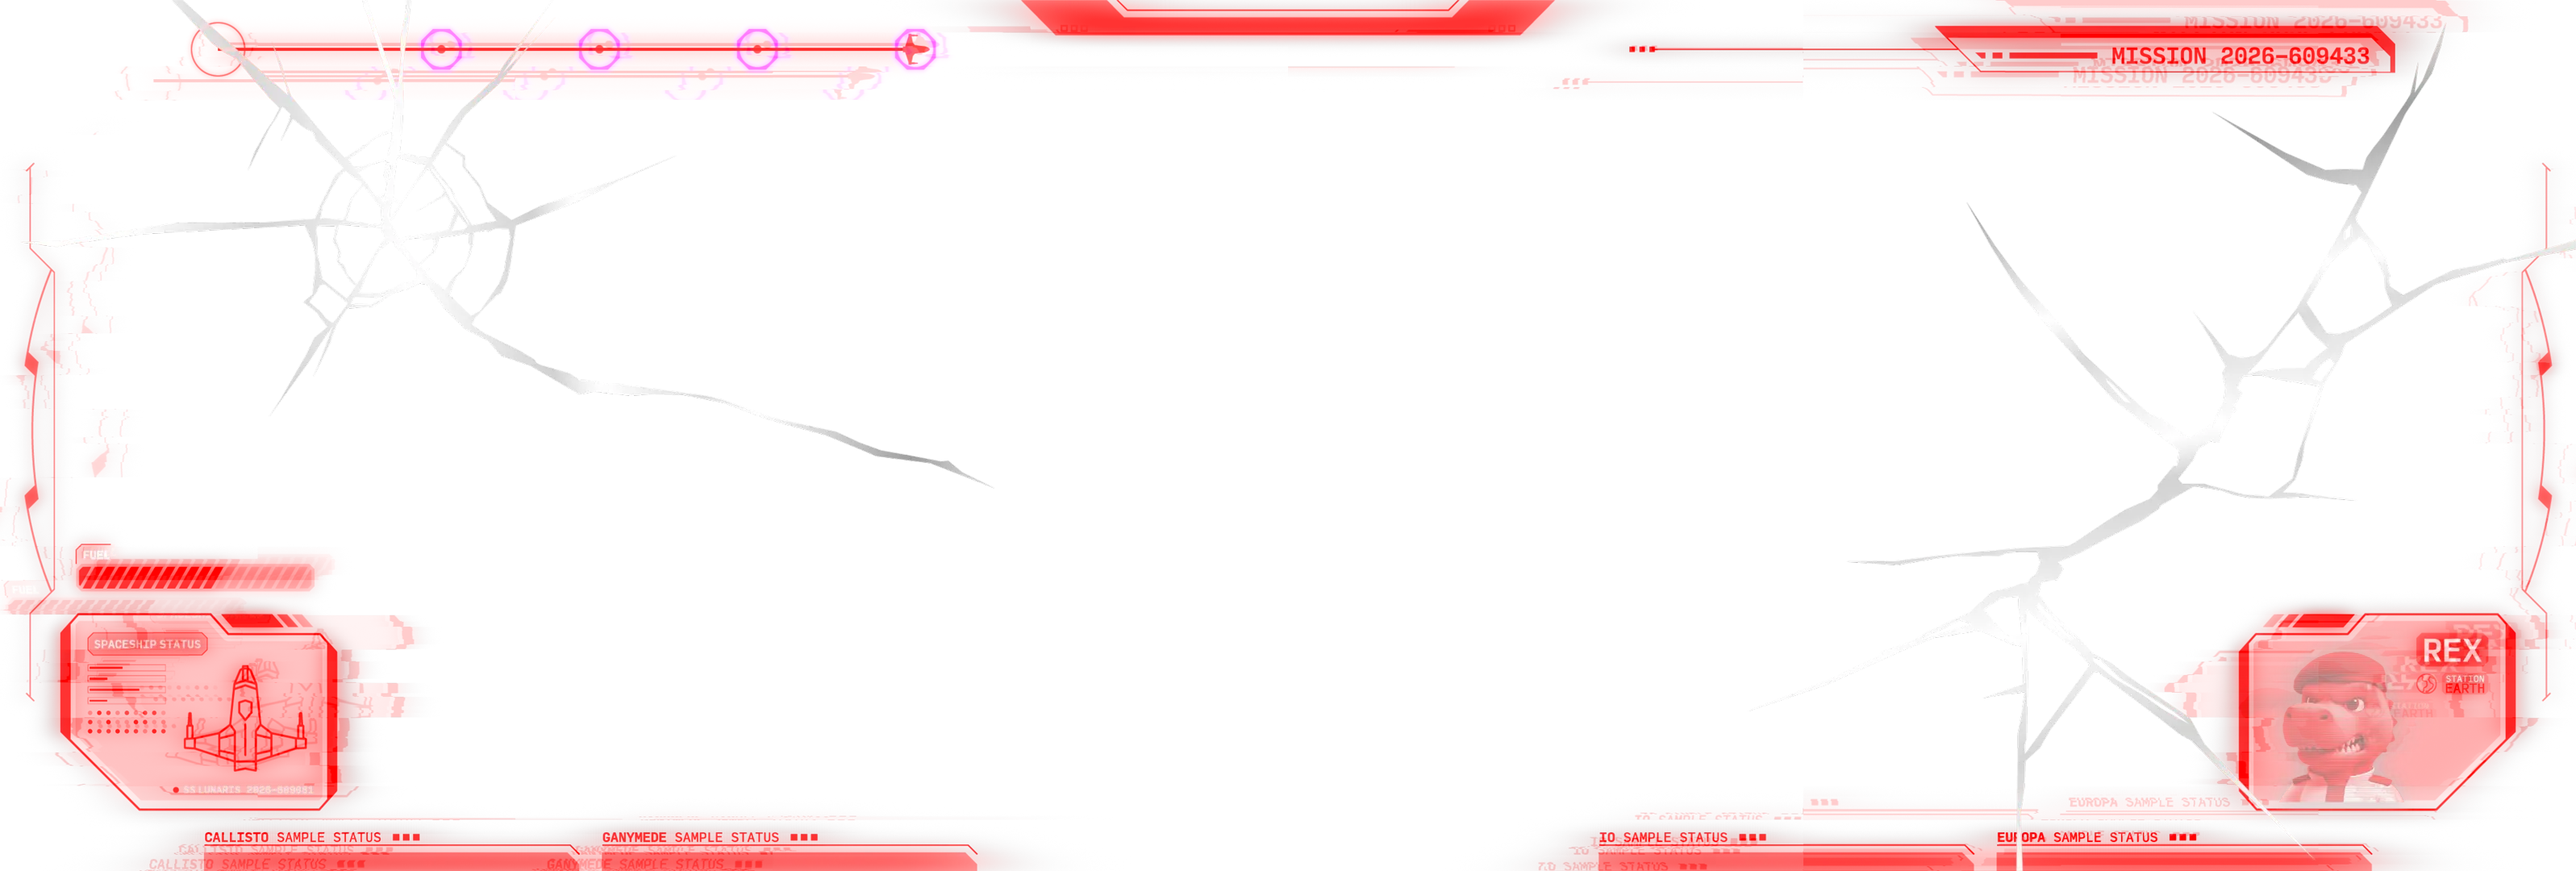
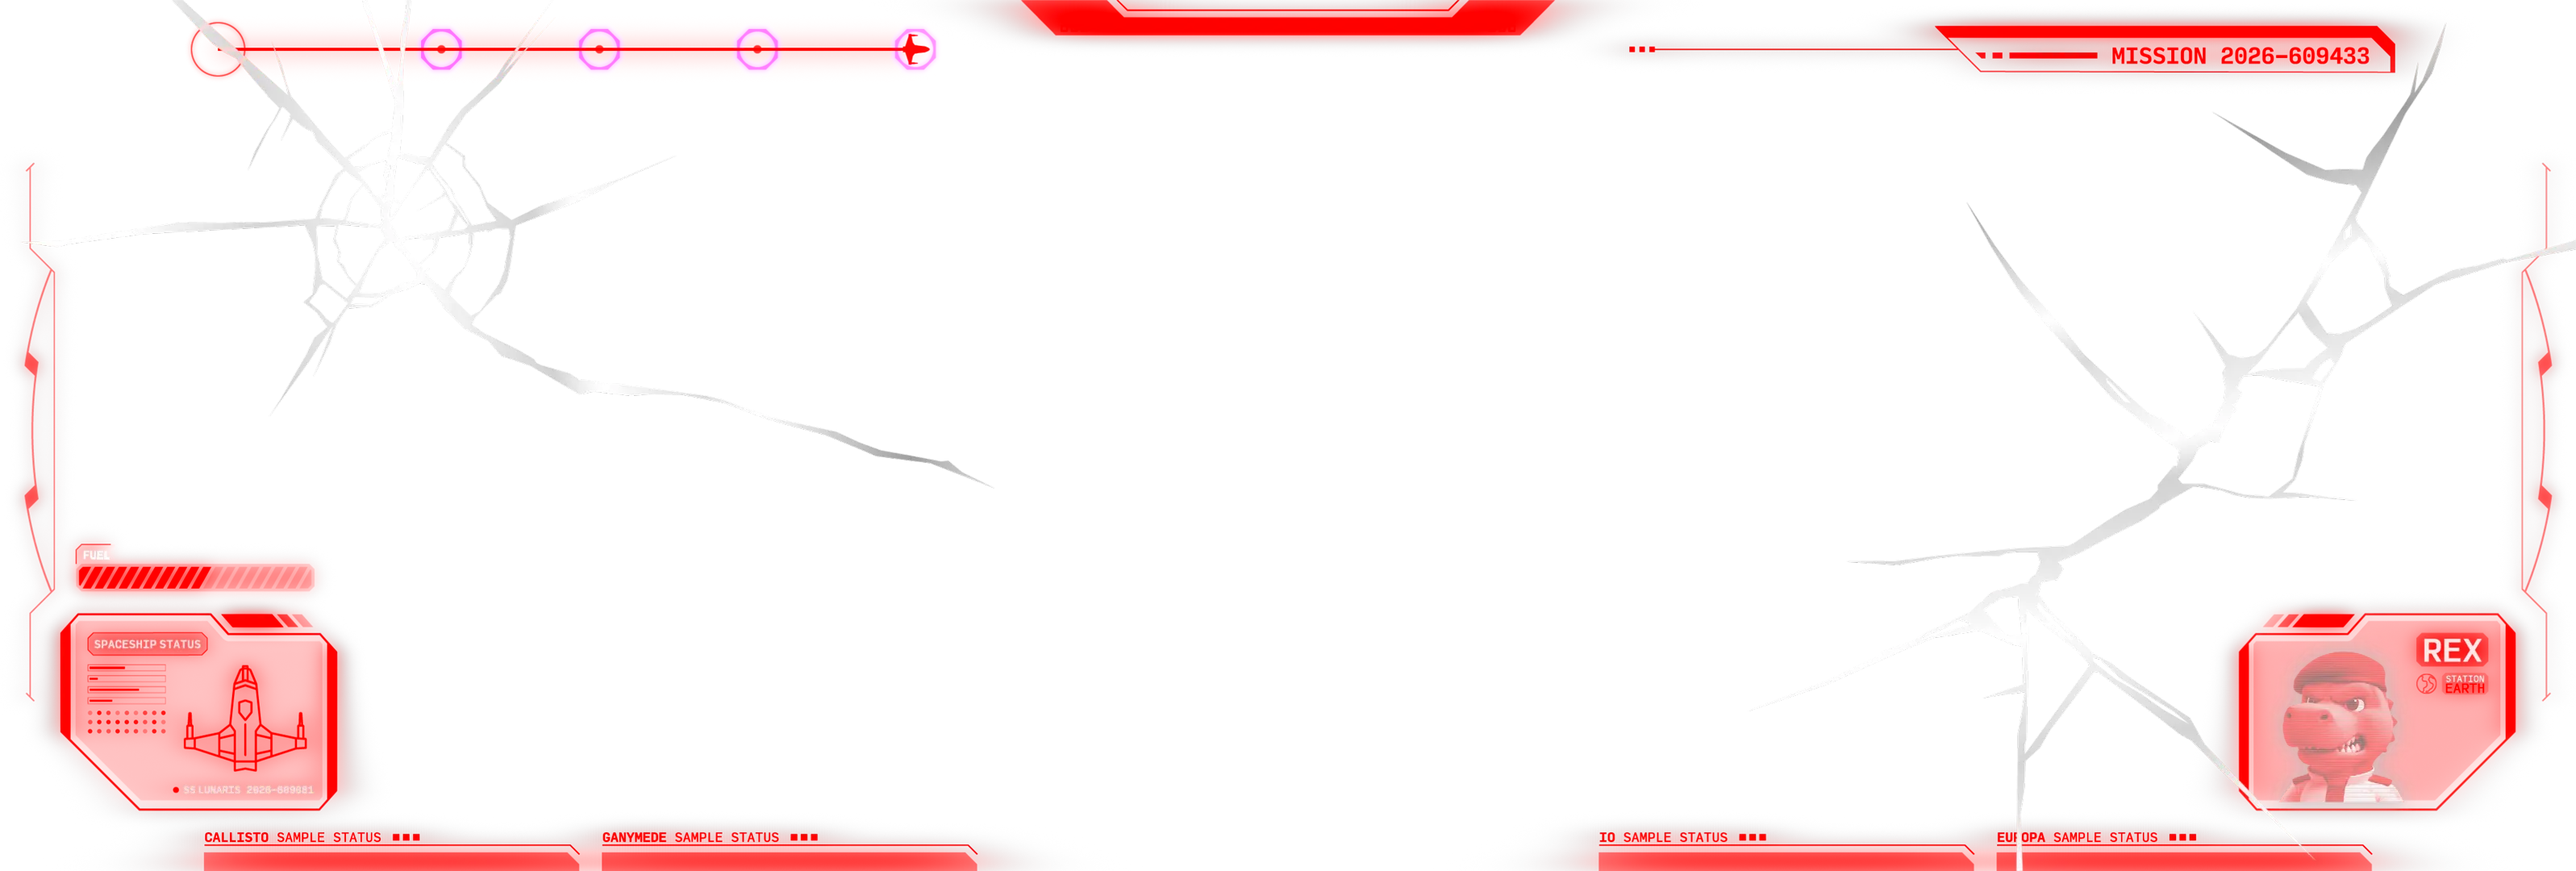
feat: overlay manager

diff --git a/src/Game.js b/src/Game.js
@@ -12,6 +12,7 @@ export class Game {
         this.shadowContainer = null;
         this.gameContainer = null;
         this.uiContainer = null;
+        this.overlayContainer = null;
 
         this.soundManager = null;
         this.spaceship = null;
@@ -50,6 +51,9 @@ export class Game {
         this.countText = null;
 
         this.bgSprite = null;
+        this.overlaySprite = null;
+        this.currentOverlayIndex = 0;
+        this.nextOverlaySwapTime = 0;
     }
 
     async init() {
@@ -81,6 +85,9 @@ export class Game {
 
         this.uiContainer = new PIXI.Container();
         this.app.stage.addChild(this.uiContainer);
+
+        this.overlayContainer = new PIXI.Container();
+        this.app.stage.addChild(this.overlayContainer);
 
         // Loading Screen
         const loadingStyle = new PIXI.TextStyle({
@@ -137,6 +144,15 @@ export class Game {
             this.app.stage.addChildAt(this.bgSprite, 0);
         }
 
+        // Init Overlay
+        if (resources.overlays && resources.overlays.length > 0) {
+            this.overlaySprite = new PIXI.Sprite(resources.overlays[0]);
+            this.overlaySprite.anchor.set(0.5);
+            this.overlaySprite.visible = true;
+            this.resizeOverlay();
+            this.overlayContainer.addChild(this.overlaySprite);
+        }
+
         // UDP → WebSocket bridge (only available when served via server.js)
         this.setupUDPBridge();
 
@@ -186,6 +202,14 @@ export class Game {
             this.soundManager.playSpaceship();
             this.soundManager.resetTimeline();
         }
+
+        // Start Overlays
+        if (this.overlaySprite) {
+            this.overlaySprite.visible = true;
+            this.currentOverlayIndex = Math.floor(Math.random() * resources.overlays.length);
+            this.overlaySprite.texture = resources.overlays[this.currentOverlayIndex];
+            this.setNextOverlaySwap(Date.now());
+        }
     }
 
     returnToIdle() {
@@ -207,6 +231,12 @@ export class Game {
         if (this.soundManager) {
             this.soundManager.stopMusic();
         }
+
+        if (this.overlaySprite) {
+            this.overlaySprite.visible = true;
+            this.overlaySprite.texture = resources.overlays[0]; // Reset to overlay_a
+            this.resizeOverlay();
+        }
     }
 
     resizeBackground() {
@@ -219,6 +249,18 @@ export class Game {
         this.bgSprite.scale.set(scale);
         this.bgSprite.x = sw / 2;
         this.bgSprite.y = sh / 2;
+    }
+
+    resizeOverlay() {
+        if (!this.overlaySprite) return;
+        const sw = this.app.screen.width;
+        const sh = this.app.screen.height;
+        const tex = this.overlaySprite.texture;
+
+        const scale = Math.max(sw / tex.width, sh / tex.height);
+        this.overlaySprite.scale.set(scale);
+        this.overlaySprite.x = sw / 2;
+        this.overlaySprite.y = sh / 2;
     }
 
     setupEventListeners() {
@@ -298,6 +340,7 @@ export class Game {
 
         window.addEventListener('resize', () => {
             if (this.bgSprite) this.resizeBackground();
+            this.resizeOverlay();
         });
 
         window.addEventListener('keydown', (e) => {
@@ -547,6 +590,9 @@ export class Game {
         if (this.soundManager) {
             this.soundManager.updateTimeline(this.gameTime, CONFIG.SCHEDULED_SOUNDS, CONFIG.AUDIO.SPEECH_VOLUME);
         }
+
+        // Update Overlays
+        this.updateOverlay(now);
     }
 
     spawnLogic(now) {
@@ -664,6 +710,22 @@ export class Game {
                 this.soundManager.playExplosion();
                 this.soundManager.playAlienDeath((x / this.app.screen.width) * 2 - 1); // Pan based on click
             }
+        }
+    }
+
+    setNextOverlaySwap(now) {
+        const interval = (CONFIG.OVERLAYS.INTERVAL_MIN + Math.random() * (CONFIG.OVERLAYS.INTERVAL_MAX - CONFIG.OVERLAYS.INTERVAL_MIN)) * 1000;
+        this.nextOverlaySwapTime = now + interval;
+    }
+
+    updateOverlay(now) {
+        if (this.gameState !== 'ACTIVE' || !this.overlaySprite) return;
+
+        if (now >= this.nextOverlaySwapTime) {
+            this.currentOverlayIndex = (this.currentOverlayIndex + 1) % resources.overlays.length;
+            this.overlaySprite.texture = resources.overlays[this.currentOverlayIndex];
+            this.resizeOverlay(); // Re-scale if texture dims differ (though they probably don't)
+            this.setNextOverlaySwap(now);
         }
     }
 }

diff --git a/src/config.js b/src/config.js
@@ -86,5 +86,15 @@ export const CONFIG = {
         MAX_FOOTSTEP_VOLUME: 3.0,      // The max volume of the footprint footsteps
         GRUNT_CHANCE_PER_ALIEN: 0.0003, // Per-frame chance an alien will scream/grunt (adjust based on FPS)
         SPEECH_VOLUME: 3.0             // Volume for scheduled speech clips (rex1-4)
+    },
+
+    // Overlays
+    OVERLAYS: {
+        INTERVAL_MIN: 5,               // Minimum swap interval in seconds
+        INTERVAL_MAX: 10,              // Maximum swap interval in seconds
+        ASSETS: [
+            'assets/overlays/overlay_a.webp',
+            'assets/overlays/overlay_b.webp'
+        ]
     }
 };

diff --git a/src/managers/AssetManager.js b/src/managers/AssetManager.js
@@ -5,7 +5,10 @@ export const resources = {
     captainFrames: [],
     minionFrames: [],
     spaceshipFrames: [],
+    // Physics / Interaction
     parts: [],
+    // Overlays
+    overlays: [],
     // Static Fallback Textures
     ship: null,
     kraken: null,
@@ -45,6 +48,12 @@ export async function loadAssets() {
     for (let i = 0; i < 14; i++) {
         const t = await PIXI.Texture.from(`assets/part${i}.png`);
         resources.parts.push(t);
+    }
+
+    // 4. Overlays
+    for (const path of CONFIG.OVERLAYS.ASSETS) {
+        const t = await PIXI.Assets.load(path);
+        resources.overlays.push(t);
     }
 
     // 4. Music
